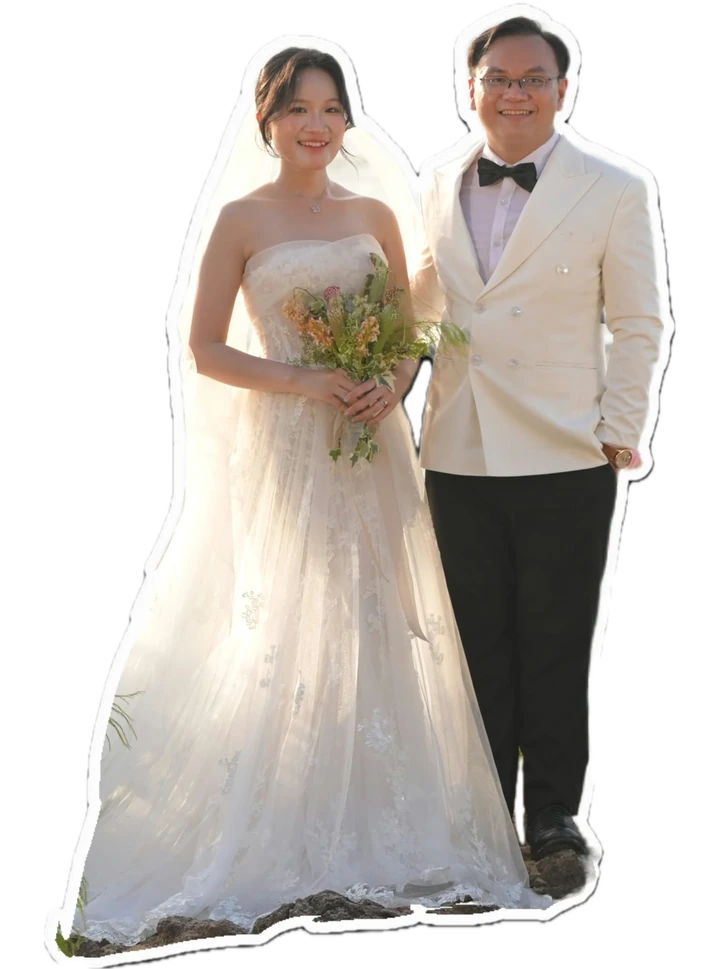
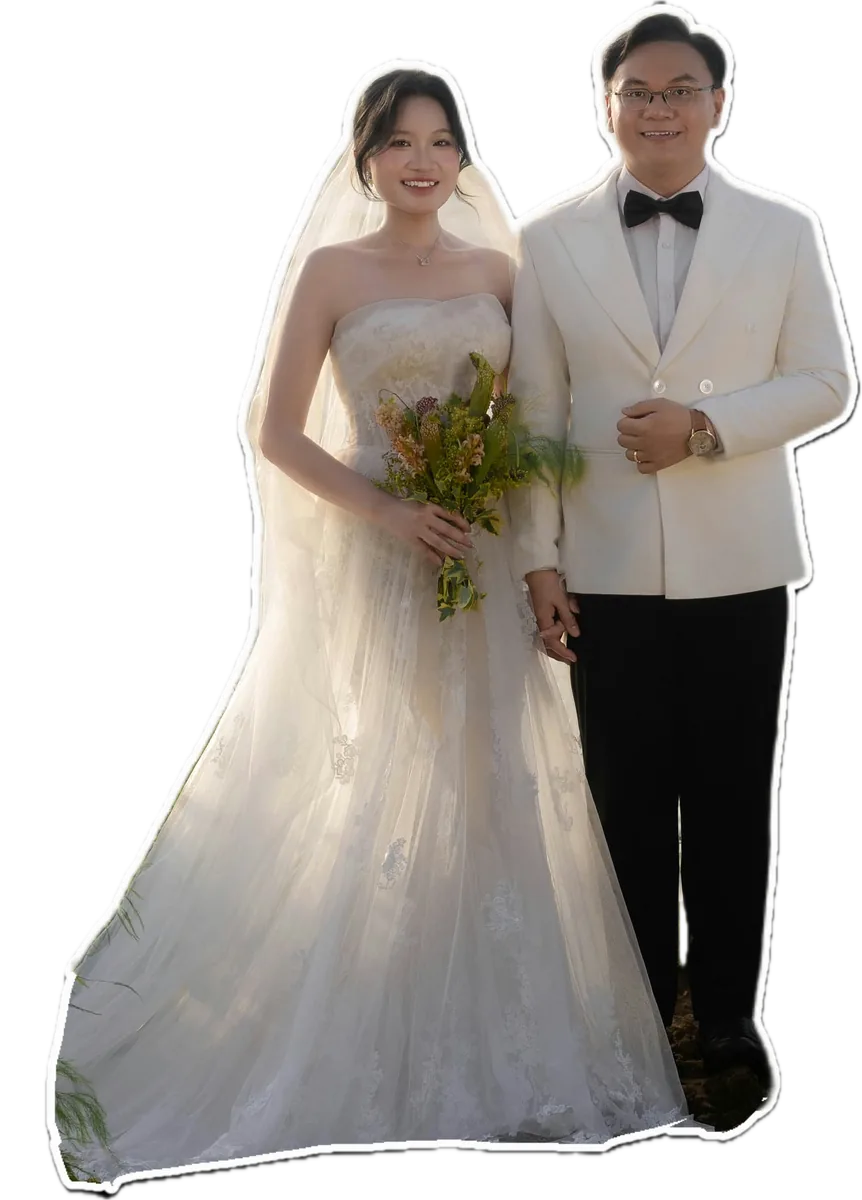
feat(photos): replace couple-09/10, crop couple-10 to prior ratio, keep backups
- couple-09: new full-length cutout (alpha preserved), node ?v=2.
- couple-10: new hand-kiss photo, bottom-cropped to match old ratio
  (0.8467), node ?v=3.
- Preserve pre-change images as *.old.webp (couple-09/10/11/12/15).

diff --git a/components/sections/MarriedSection.jsx b/components/sections/MarriedSection.jsx
@@ -17,12 +17,12 @@ export default function MarriedSection() {
         Giữa hàng tỷ vì sao trong dải ngân hà,&nbsp;
         <div>Em chỉ muốn kề bên anh mãi mãi.</div>
       </TextNode>
-      <PhotoNode id="-DyBz-kAYB" top={2933.56} left={139.752} width={360} height={499.68} anim="slide-up" delay={0.2} src="assets/images/photos/couple-09.webp" radius={0} />
+      <PhotoNode id="-DyBz-kAYB" top={2933.56} left={139.752} width={360} height={499.68} anim="slide-up" delay={0.2} src="assets/images/photos/couple-09.webp?v=2" radius={0} />
       <TextNode id="hsd7MzmaEN" top={3107.89} left={30.1} width={167} anim="slide-right" delay={0} justify="center" align="center" color="#58c5fd" fontSize={43} fontFamily="Carlytte" letterSpacing={0}>
         &quot;There is nothing I want more for myself than a future with you.&quot;
       </TextNode>
       <MaterialImageNode id="0__XxMtHJk" top={2848} left={266.402} width={93} height={57.0179} anim="slide-up" delay={0.2} transform="rotate(39.9551deg) scale(1, 1)" src="assets/images/decor/ixntp8lomb7yu5fpt6g8q.png" />
-      <PhotoNode id="R8TWBhefN9" top={3655.48} left={0.8} width={370} height={493.58} anim="slide-up" delay={0.2} src="assets/images/photos/couple-10.webp" radius={0} />
+      <PhotoNode id="R8TWBhefN9" top={3655.48} left={0.8} width={370} height={493.58} anim="slide-up" delay={0.2} src="assets/images/photos/couple-10.webp?v=3" radius={0} />
       <PhotoNode id="Jz-qcguaYX" top={3585.5} left={245} width={258.5} height={155.1} anim="slide-up" delay={0.2} src="assets/images/titles/step-by-step.webp" radius={0} />
     </>
   );
